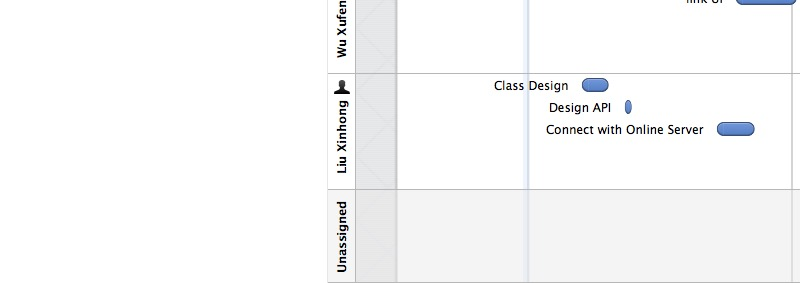
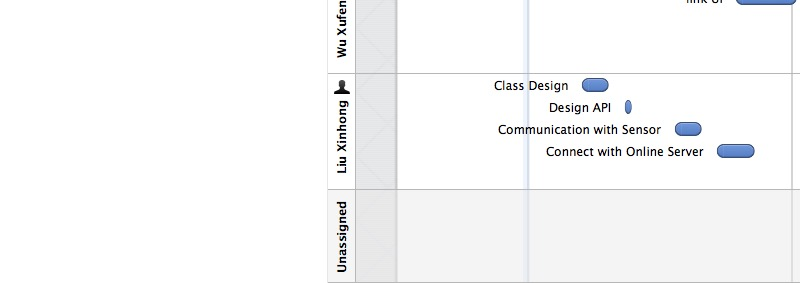
add sensor

Changed region(s): [[0.625, 0.424, 0.9688, 0.4806], [0.6875, 0.5088, 0.9688, 0.5654]]

diff --git a/Into Heart.html b/Into Heart.html
@@ -286,7 +286,7 @@
                 <td>3/3/15</td>
                 <td>7w</td>
                 <td>0%</td>
-                <td>4.3.1, 4.3.4FF, 4.3.3FF</td>
+                <td>4.3.1, 4.3.5FF, 4.3.4FF, 4.3.3FF</td>
                 <td align="right"></td>
                 <td>Liu &amp; Wu</td>
                 <td></td>
@@ -298,7 +298,24 @@
             </tr>
             
             <tr class="taskTypeTask">
-                <td style="padding-left: 38px;" class="wrap">4.3.3) link UI</td>
+                <td style="padding-left: 38px;" class="wrap">4.3.3) Communication with Sensor</td>
+                <td>17/2/15</td>
+                <td>18/2/15</td>
+                <td>1w</td>
+                <td>0%</td>
+                <td>4.3.1</td>
+                <td align="right"></td>
+                <td>Liu Xinhong</td>
+                <td></td>
+                <td></td>
+                <td>17/2/15</td>
+                <td></td>
+                <td></td>
+                <td></td>
+            </tr>
+            
+            <tr class="taskTypeTask">
+                <td style="padding-left: 38px;" class="wrap">4.3.4) link UI</td>
                 <td>23/2/15</td>
                 <td>2/3/15</td>
                 <td>&lt; 2w 2d</td>
@@ -315,7 +332,7 @@
             </tr>
             
             <tr class="taskTypeTask">
-                <td style="padding-left: 38px;" class="wrap">4.3.4) Connect with Online Server</td>
+                <td style="padding-left: 38px;" class="wrap">4.3.5) Connect with Online Server</td>
                 <td>20/2/15</td>
                 <td>25/2/15</td>
                 <td>1w 2.25d</td>

diff --git a/Into HeartResources.html b/Into HeartResources.html
@@ -252,7 +252,7 @@
                 <td style="padding-left: 30px;">Liu Xinhong</td>
                 <td>6/2/15</td>
                 <td>25/2/15</td>
-                <td>2w 3.25d</td>
+                <td>3w 3.25d</td>
                 <td>0%</td>
                 <td align="right"></td>
             </tr>
@@ -271,6 +271,15 @@
                 <td>11/2/15</td>
                 <td>11/2/15</td>
                 <td>1d</td>
+                <td>0%</td>
+                <td align="right"></td>
+            </tr>
+            
+            <tr>
+                <td style="padding-left: 38px;" class="wrap taskTypeTask">Communication with Sensor</td> 
+                <td>17/2/15</td>
+                <td>18/2/15</td>
+                <td>1w</td>
                 <td>0%</td>
                 <td align="right"></td>
             </tr>

diff --git a/Into HeartGantt.html b/Into HeartGantt.html
@@ -1,10 +1,10 @@
 <html><body><table border="0" cellspacing="0" cellpadding="0">
 <tr>
-	<td><img src="include/gantt0,0.jpg?nocacheTag=-1946728897" border=0/></td>
-	<td><img src="include/gantt1,0.jpg?nocacheTag=-1890758499" border=0/></td>
+	<td><img src="include/gantt0,0.jpg?nocacheTag=-2139392461" border=0/></td>
+	<td><img src="include/gantt1,0.jpg?nocacheTag=-319823966" border=0/></td>
 </tr>
 <tr>
-	<td><img src="include/gantt0,1.jpg?nocacheTag=1840513423" border=0/></td>
-	<td><img src="include/gantt1,1.jpg?nocacheTag=-1880202818" border=0/></td>
+	<td><img src="include/gantt0,1.jpg?nocacheTag=-1009966366" border=0/></td>
+	<td><img src="include/gantt1,1.jpg?nocacheTag=1025225412" border=0/></td>
 </tr>
 </table></body></html>
